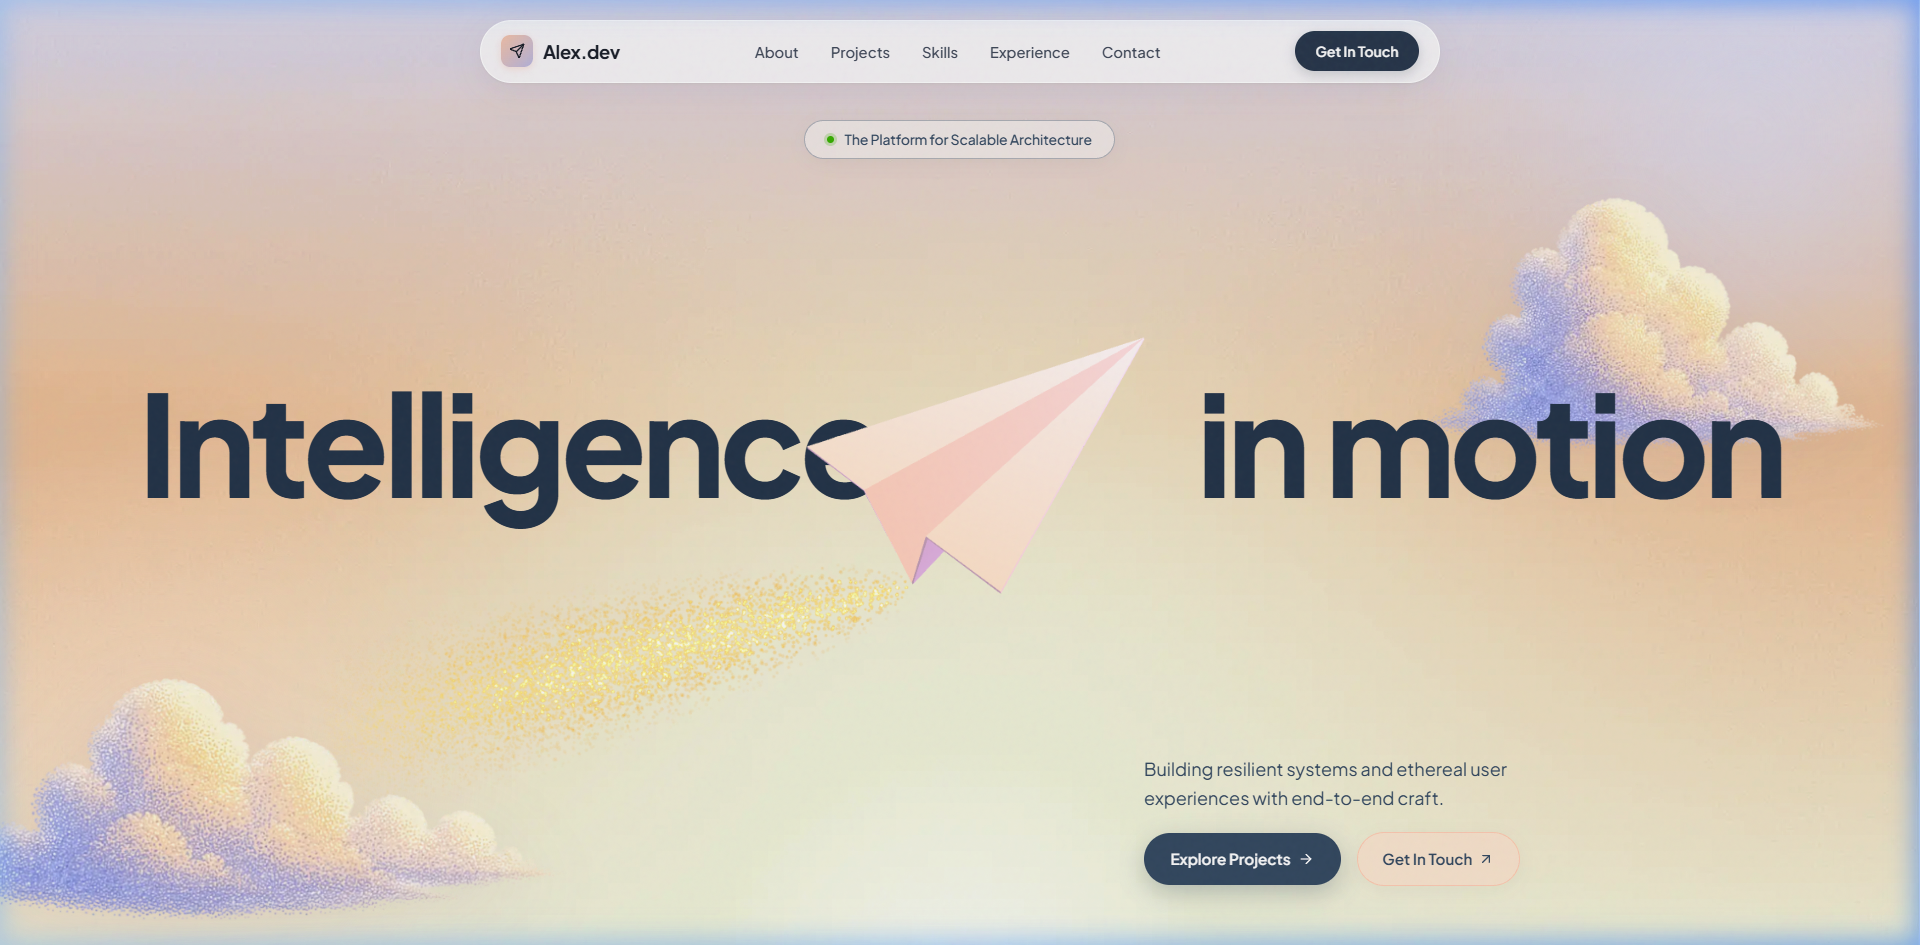
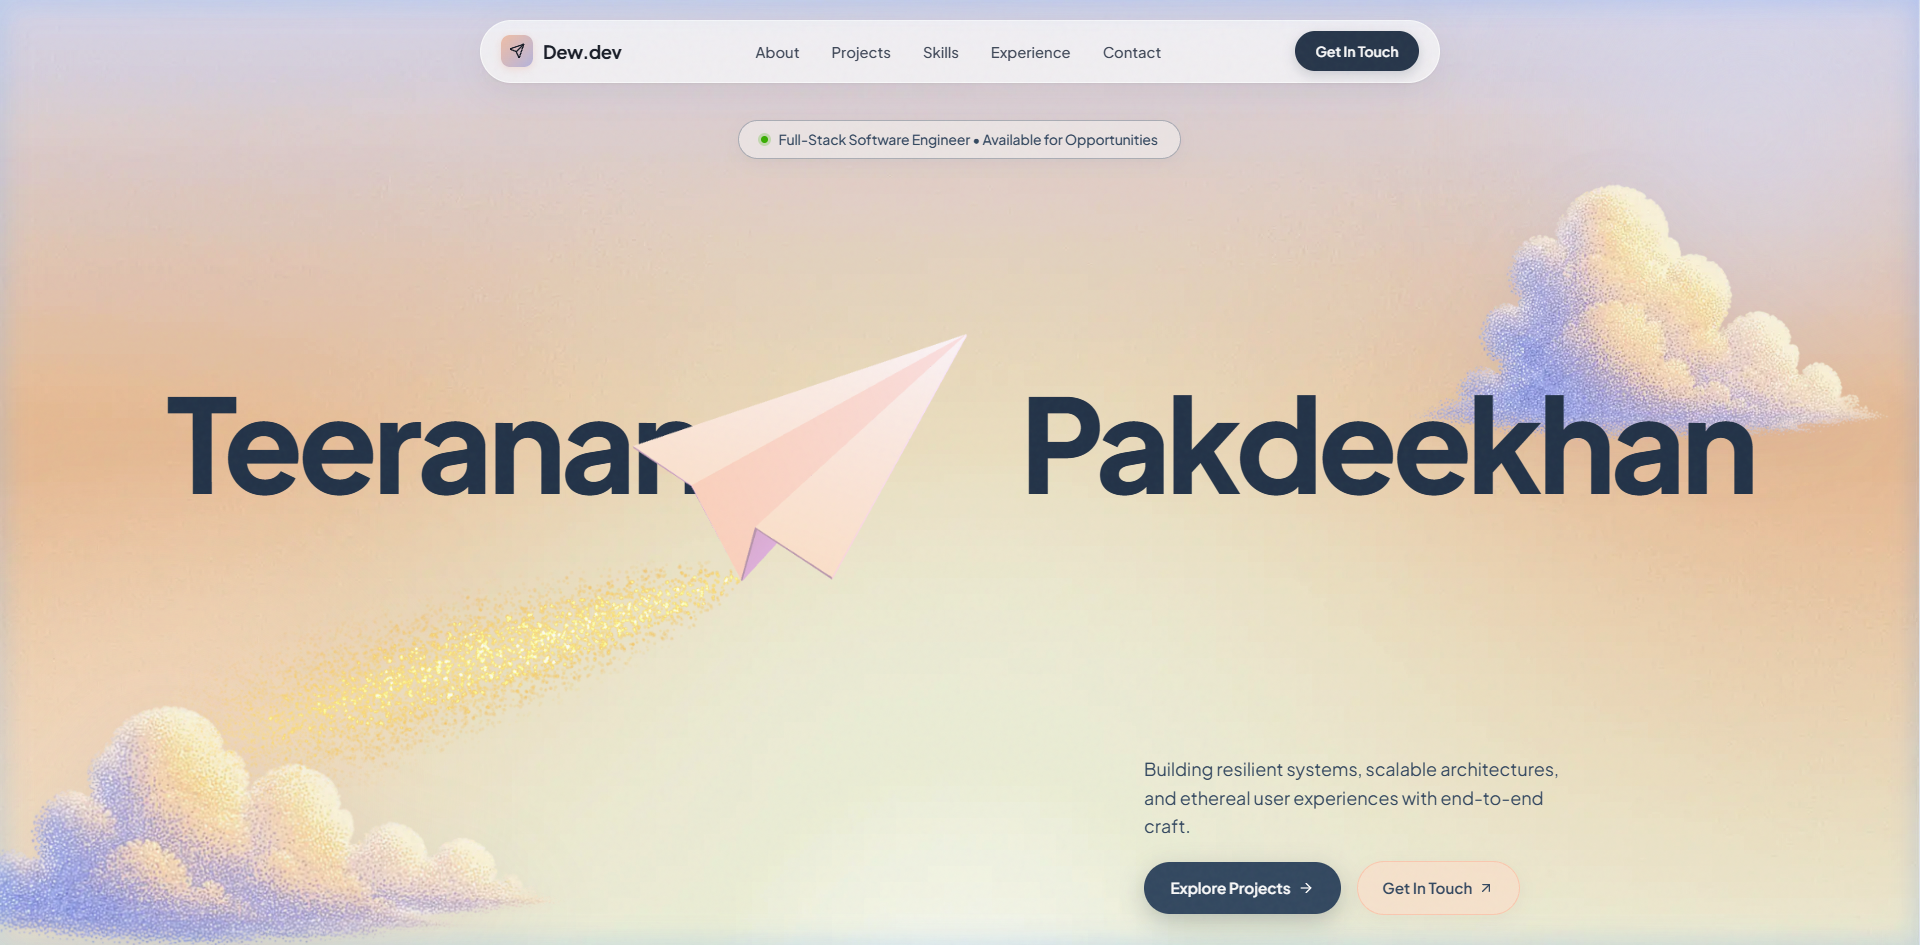
feat(profile): personalize portfolio for Teeranan Pakdeekhan (Dew)

diff --git a/src/data/profile.ts b/src/data/profile.ts
@@ -1,21 +1,21 @@
 import { ProfileData } from "./types";
 
 export const profileData: ProfileData = {
-  name: "Alex Dev",
+  name: "Teeranan Pakdeekhan (Dew)",
   role: "Full-Stack Software Engineer",
   subRole: "Systems Architecture • Frontend Craft • Cloud Engineering",
-  tagline: "Building resilient systems and ethereal user experiences with end-to-end craft.",
+  tagline: "Building resilient systems, scalable architectures, and ethereal user experiences with end-to-end craft.",
   bio: [
-    "I am a software engineer focused on building robust, scalable digital experiences from architectural foundations up to pixel-level interactions.",
-    "My engineering philosophy centers on clean abstractions, deep modules, verifiable correctness, and purposeful aesthetics that make complex systems effortless to navigate."
+    "I am a full-stack software engineer and systems architect passionate about crafting high-performance digital experiences from deep architectural foundations up to pixel-level interactions.",
+    "My engineering philosophy centers on clean abstractions, deep modules, verifiable correctness, and purposeful aesthetics that make complex systems effortless and intuitive to navigate."
   ],
   location: "Bangkok, Thailand (Available for Global Remote)",
   status: "Open for Software Engineering Opportunities",
-  email: "alex.engineer@example.com",
+  email: "teeranan.dev@gmail.com",
   socials: {
-    github: "https://github.com/alex-dev",
-    linkedin: "https://linkedin.com/in/alex-dev",
-    twitter: "https://x.com/alex_dev",
+    github: "https://github.com/01aptx01",
+    linkedin: "https://linkedin.com/in/teeranan-pakdeekhan",
+    twitter: "https://x.com/01aptx01",
   },
   metrics: [
     { label: "Years Experience", value: "3+" },

diff --git a/src/app/layout.tsx b/src/app/layout.tsx
@@ -11,12 +11,12 @@ const plusJakarta = Plus_Jakarta_Sans({
 });
 
 export const metadata: Metadata = {
-  title: "Alex Dev — Full-Stack Software Engineer & Systems Architect",
-  description: "Personal developer portfolio showcasing high-throughput systems, resilient microservices, and ethereal user interfaces crafted with precision.",
-  keywords: ["Software Engineer", "Full-Stack Developer", "Next.js", "TypeScript", "Distributed Systems", "Backend Engineer"],
-  authors: [{ name: "Alex Dev" }],
+  title: "Teeranan Pakdeekhan (Dew) — Full-Stack Software Engineer & Systems Architect",
+  description: "Personal developer portfolio showcasing high-throughput systems, resilient cloud microservices, and ethereal user interfaces crafted with precision.",
+  keywords: ["Software Engineer", "Full-Stack Developer", "Next.js", "TypeScript", "Distributed Systems", "Backend Engineer", "Teeranan Pakdeekhan"],
+  authors: [{ name: "Teeranan Pakdeekhan" }],
   openGraph: {
-    title: "Alex Dev — Full-Stack Software Engineer",
+    title: "Teeranan Pakdeekhan (Dew) — Full-Stack Software Engineer",
     description: "End-to-end software engineering, distributed systems, and frontend craft.",
     type: "website",
     locale: "en_US",

diff --git a/src/components/Hero.tsx b/src/components/Hero.tsx
@@ -121,7 +121,7 @@ export default function Hero() {
         <div className={styles.eyebrowWrapper}>
           <div className={styles.eyebrowBadge}>
             <span className={styles.pulseDot} />
-            <span>The Platform for Scalable Architecture</span>
+            <span>Full-Stack Software Engineer • Available for Opportunities</span>
           </div>
         </div>
 
@@ -129,7 +129,7 @@ export default function Hero() {
         <div className={styles.stageRow} ref={stageRowRef}>
           {/* Left Hero Word */}
           <h1 className={styles.displayLeft}>
-            Intelligence
+            Teeranan
           </h1>
 
           {/* Authentic 3D WebGL Origami Plane Canvas with Golden Particle Tail */}
@@ -143,7 +143,7 @@ export default function Hero() {
 
           {/* Right Hero Word */}
           <h1 className={styles.displayRight}>
-            in motion
+            Pakdeekhan
           </h1>
         </div>
 

diff --git a/src/components/Hero.module.css b/src/components/Hero.module.css
@@ -168,7 +168,7 @@
 }
 
 .displayLeft {
-  font-size: clamp(3.2rem, 7.8vw, 8.8rem);
+  font-size: clamp(2.8rem, 6.8vw, 8.2rem);
   font-weight: 750;
   letter-spacing: -0.04em;
   line-height: 0.95;
@@ -181,7 +181,7 @@
 }
 
 .displayRight {
-  font-size: clamp(3.2rem, 7.8vw, 8.8rem);
+  font-size: clamp(2.8rem, 6.8vw, 8.2rem);
   font-weight: 750;
   letter-spacing: -0.04em;
   line-height: 0.95;

diff --git a/src/components/Navbar.tsx b/src/components/Navbar.tsx
@@ -12,7 +12,7 @@ export default function Navbar() {
           <div className={styles.brandIcon}>
             <Send size={16} />
           </div>
-          <span>Alex.dev</span>
+          <span>Dew.dev</span>
         </Link>
 
         <ul className={styles.links}>
